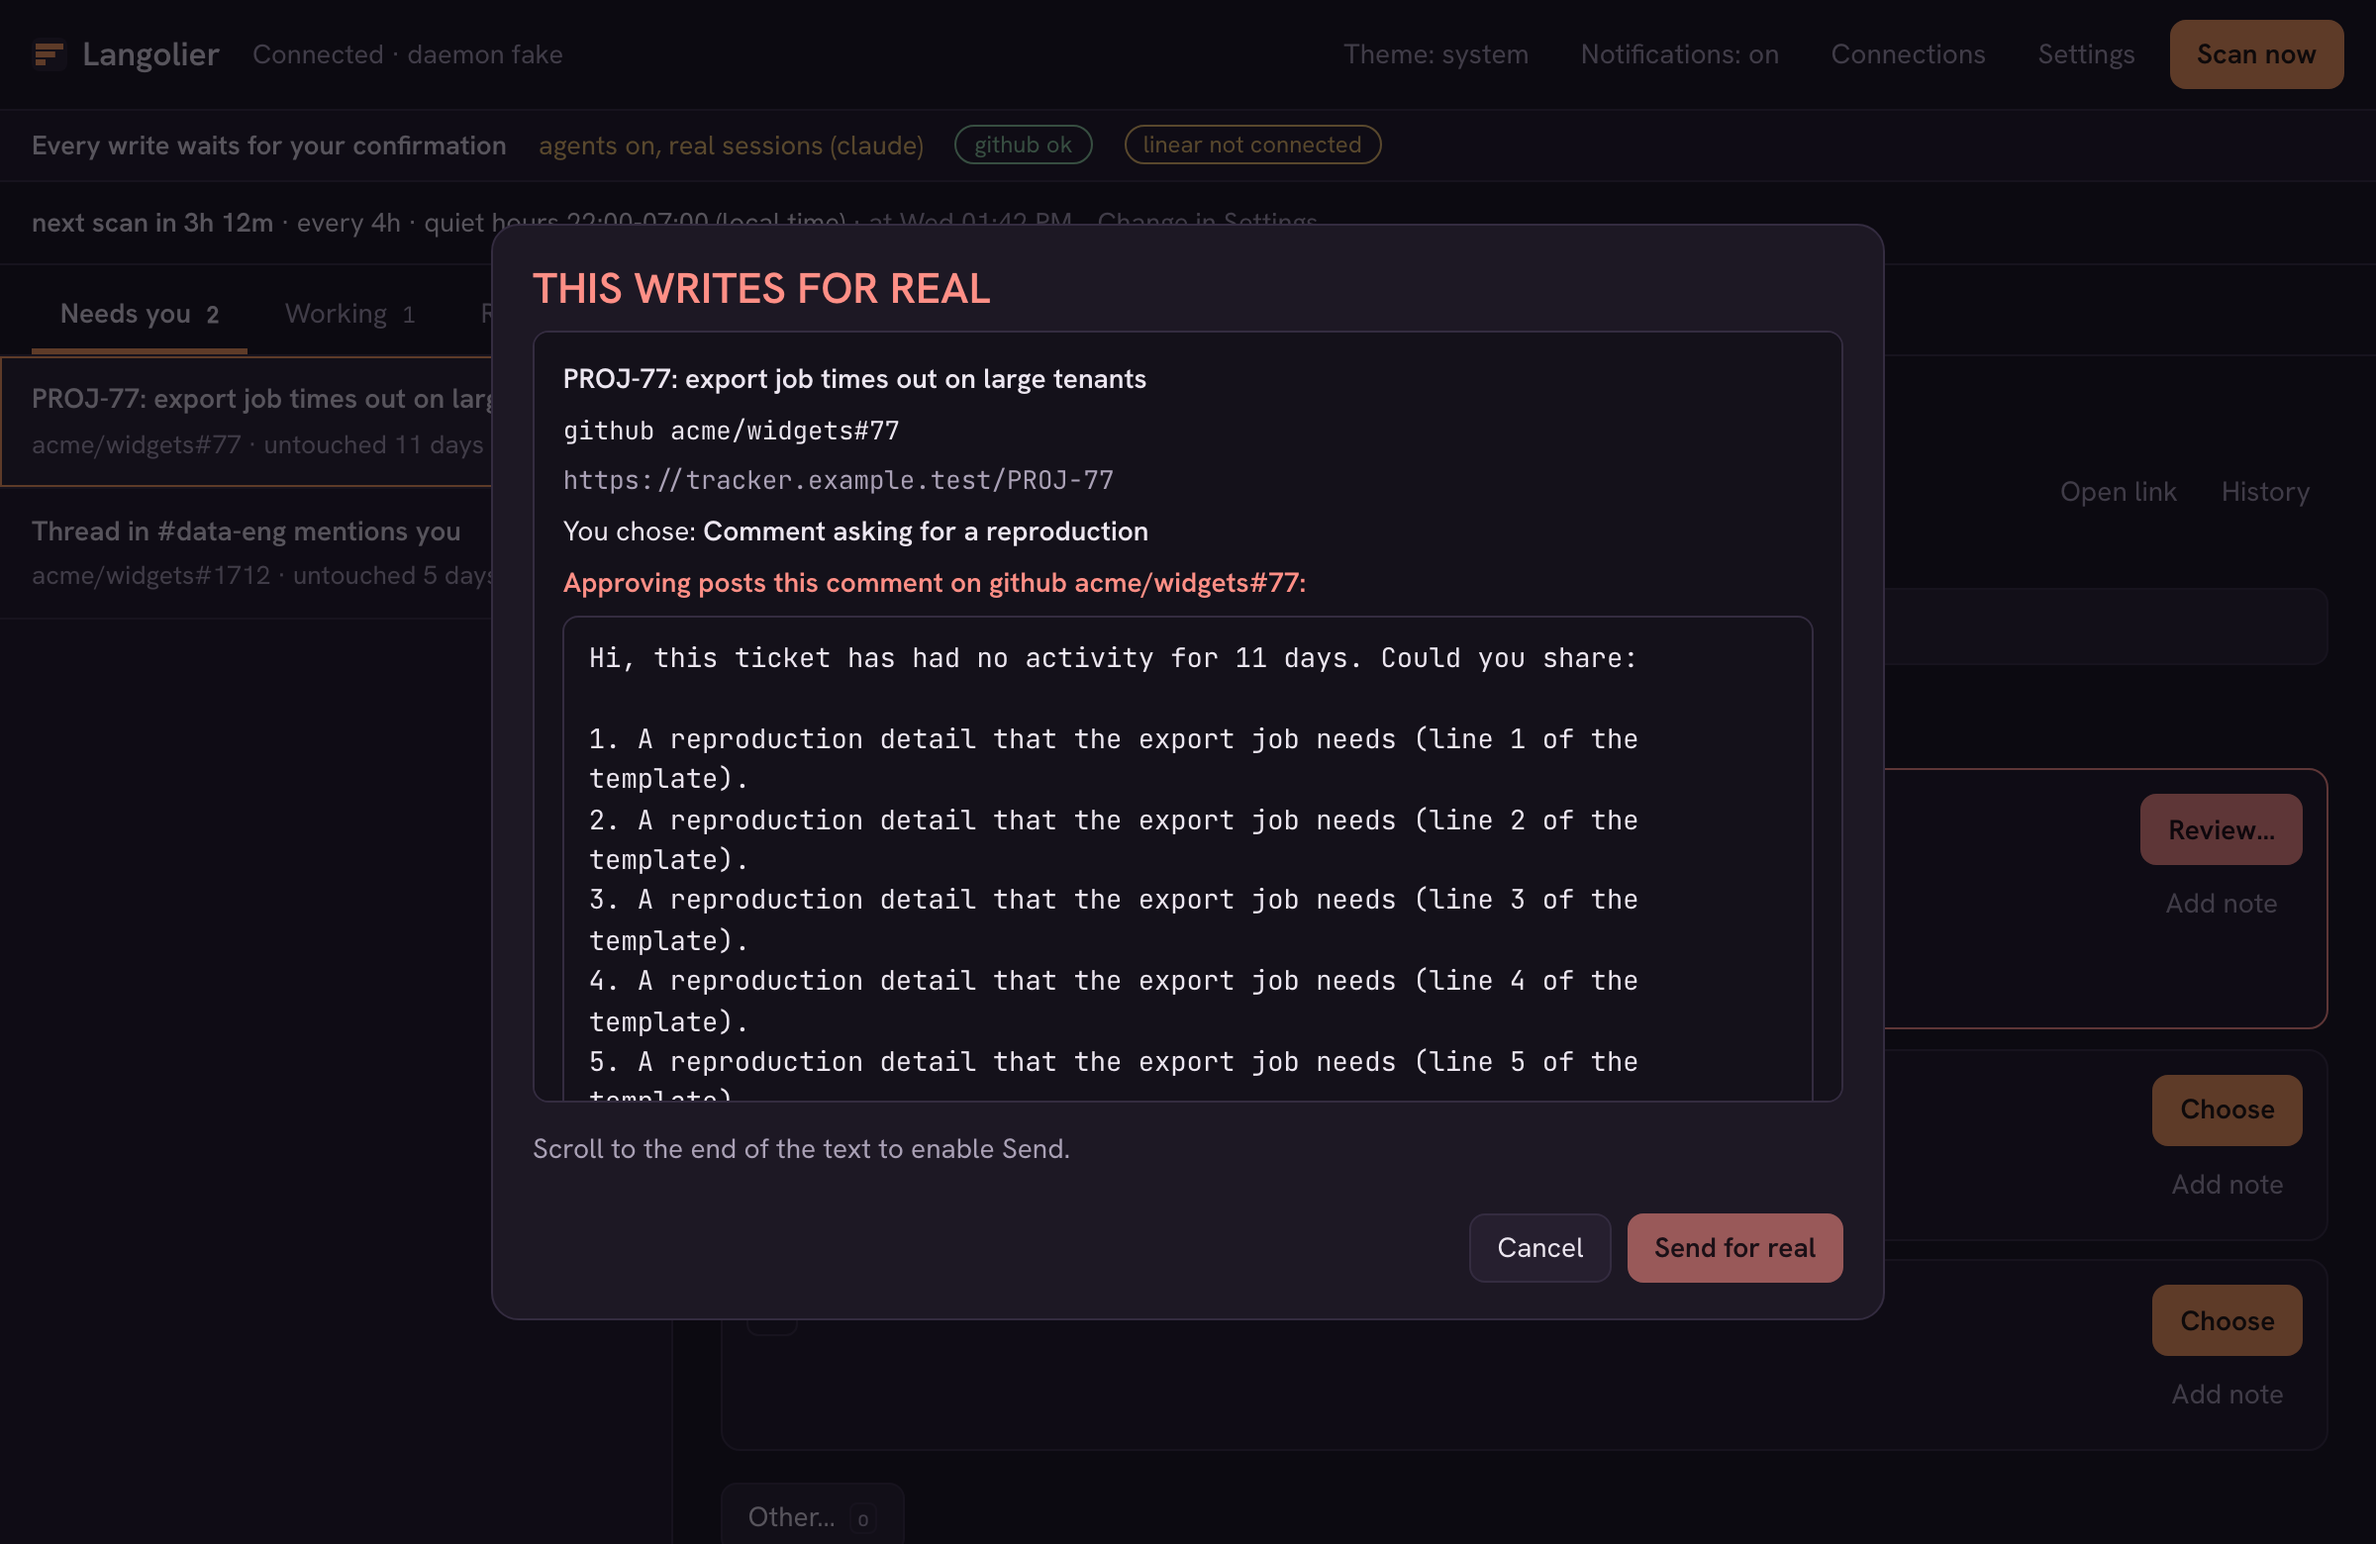
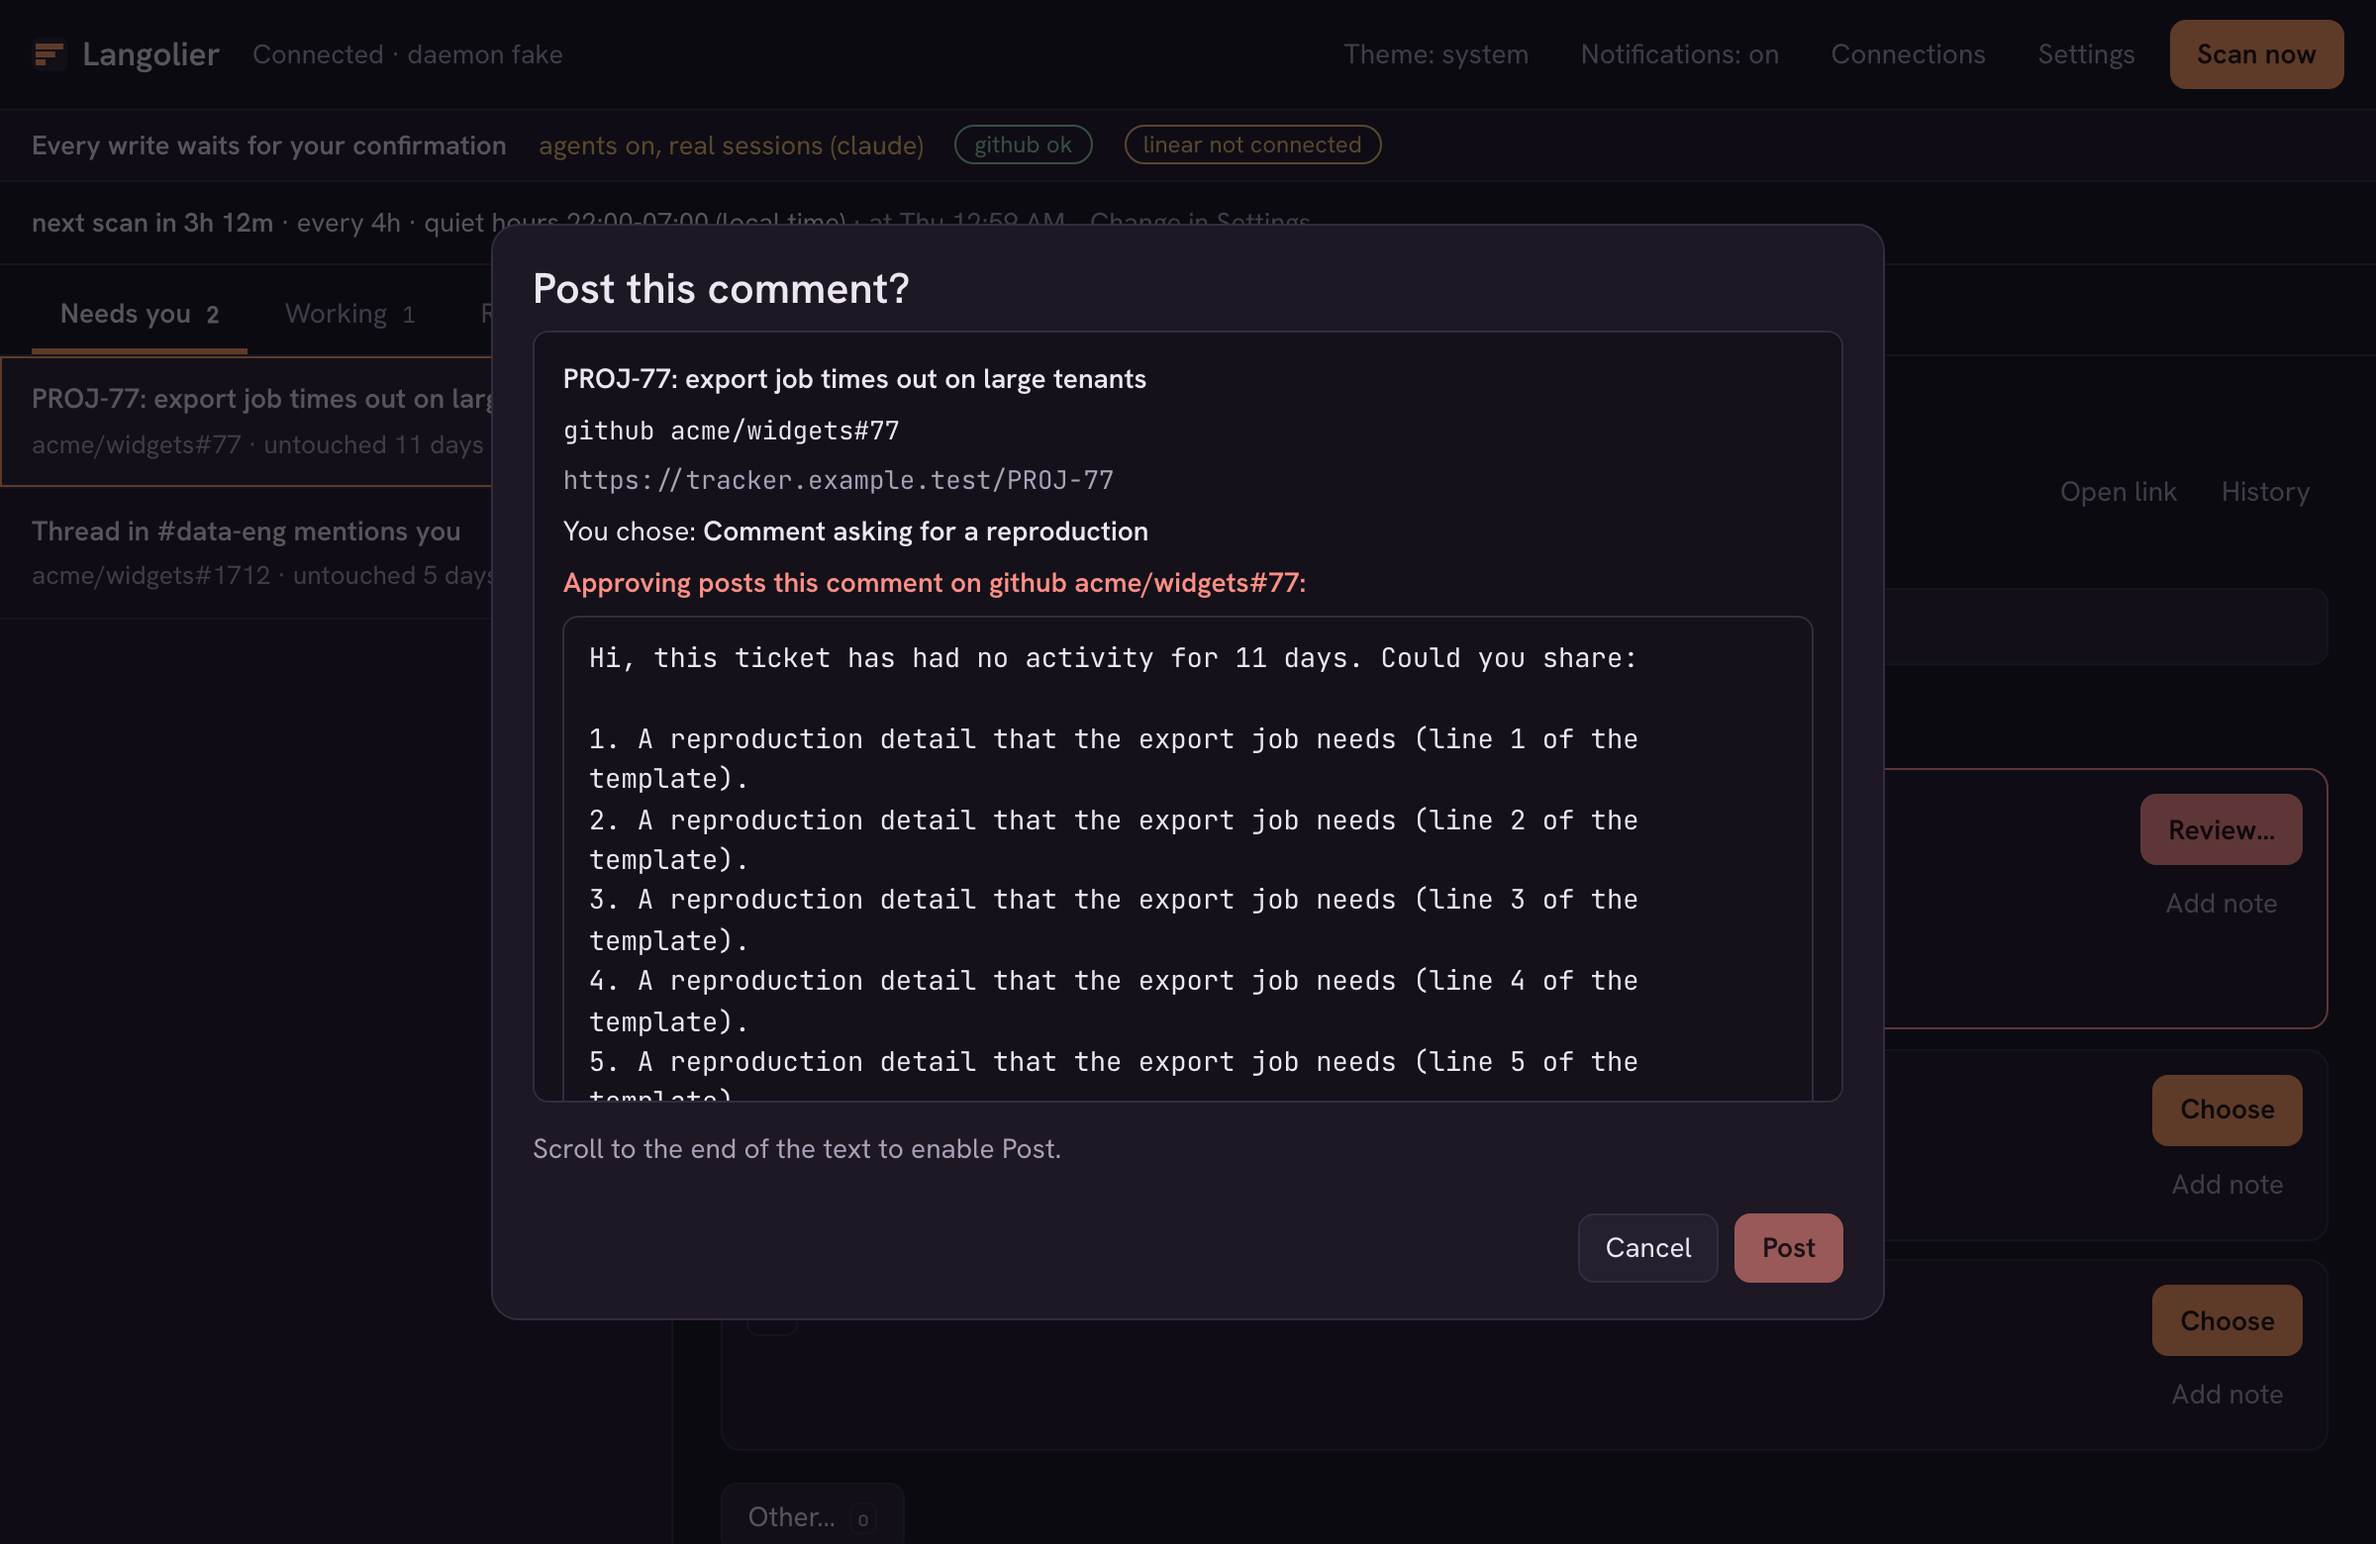
Update Langolier post for 0.2.2 (#15)

Changed region(s): [[0.2188, 0.1538, 0.4062, 0.2154], [0.625, 0.7692, 0.75, 0.8308]]

diff --git a/src/content/blog/3900-langolier-launch-the-backlog-that-quietly-rots.md b/src/content/blog/3900-langolier-launch-the-backlog-that-quietly-rots.md
@@ -1,6 +1,6 @@
 ---
 pubDatetime: 2026-11-12T02:09:00.000Z
-modDatetime: 2026-11-12T02:09:00.000Z
+modDatetime: 2026-11-11T23:59:00.000Z
 title: "Langolier: Daily decision maker"
 slug: langolier-daily-decision-maker
 featured: false
@@ -15,7 +15,7 @@ ogImage: /assets/langolier/langolier-og.png
 draft: false
 ---
 
-![The Langolier desktop app, shown with demo data. A queue lists two items under Needs you; the open card offers three numbered options, with a recommended comment tagged WRITES FOR REAL.](/assets/langolier/langolier-queue.png)
+![The Langolier desktop app, shown with demo data. A queue lists two items under Needs you; the open card offers three numbered options, with a recommended comment carrying a posts pill.](/assets/langolier/langolier-queue.png)
 
 Nothing in your backlog is on fire, which is exactly the problem.
 
@@ -52,9 +52,9 @@ A scan never writes and never starts an agent session; only a card you answer ca
 
 So this is not a read-only tool, and it isn't a dry run either. Langolier is fully functional as installed: it can post. What it won't do is post without you. Writes are narrow, and only one exists today: posting a comment on a GitHub issue or pull request. It is on by default and can be switched off per action type, in the app's Settings screen or with `langolierd settings set writes.github.comment off`. Every Linear action is unsupported for now; Linear is read-only.
 
-A comment option is tagged **WRITES FOR REAL**, and choosing it doesn't send anything. It opens a confirmation that shows the target and every character that will be posted, and the Send button stays disabled until all of that text has been on screen. Approval is per action, every time.
+A comment option carries a **posts** pill, and choosing it opens a confirmation. The app shows the target and every character that will be posted, with the note, “You'll see the exact text before anything is posted.” The dialog asks “Post this comment?” and has a **Post** button. Approval is per action, every time.
 
-![The confirmation dialog titled THIS WRITES FOR REAL, showing the target issue and the full comment text, with Cancel and Send for real buttons.](/assets/langolier/langolier-confirm-write.png)
+![The confirmation dialog titled “Post this comment?”, showing the target issue, the full comment text, and Cancel and Post buttons.](/assets/langolier/langolier-confirm-write.png)
 
 Immediately before posting, the daemon re-reads the item and re-checks that the active `gh` account is still the one you connected and that the item hasn't changed since you decided. If it has, nothing is posted and the card goes back to your queue with the reason. A failed post is never retried without a new answer.
 
@@ -68,21 +68,21 @@ You don't need the terminal to get set up. The desktop app has a **Connections**
 
 Scans also run on their own: every 4 hours by default, with quiet hours from 22:00 to 07:00, and once right after you connect an account. A scheduled scan is the same read-only scan. It never writes and never starts a session, so the queue fills up while you're away and nothing happens until you answer. The terminal commands (`langolierd connect github`, `langolierd settings`) do the same things, if you prefer them.
 
-## Local, and using your own Claude Code
+## Local, and using your own Claude Code or Codex
 
 Langolier runs on your machine. A Rust daemon does the work in the background and a frontend talks to it over a local socket: a terminal UI first, and a desktop app too. Your data and credentials stay local, and every card transition lands in a history you can open.
 
-It doesn't bring its own model. It drives the Claude Code CLI you already have, using the login already there. GitHub goes through your `gh` login, and the Linear key sits in the macOS Keychain. Connectors are registered by what they can do, such as reading assigned work, rather than by vendor name.
+It doesn't bring its own model. Agent sessions can run through Claude Code or Codex, using the sign-in already on your machine. When both are installed, Claude Code is the default; choose Codex in Settings (`agents.default`) or press `c` on a card. Codex uses your existing `codex` sign-in from `codex login` with ChatGPT; API-key logins are refused. Each session receives a short-lived copy of the login without a refresh token, and Langolier deletes it when the session ends. GitHub goes through your `gh` login, and the Linear key sits in the macOS Keychain. Scans and triage still use Claude Code.
 
 ## Agent sessions you approve one tool call at a time
 
-Some options start an agent session instead of posting a comment. There are two fixed recipes. `summarize_diff` reads an item and, for a pull request, its real diff, and writes a summary. `draft_plan` writes a `PLAN.md` in its own empty directory. Which recipe runs is named by the scan, but the tools, the working directory, and the spending caps come from Langolier and your config, never from the ticket.
+Some options start an agent session instead of posting a comment. Follow-up and resume work for both agents. There are two fixed recipes. `summarize_diff` reads an item and, for a pull request, its real diff, and writes a summary. `draft_plan` writes a `PLAN.md` in its own empty directory. Which recipe runs is named by the scan, but the tools, the working directory, and the spending caps come from Langolier and your config, never from the ticket.
 
-The session runs inside an OS sandbox that can read only its own directory and a short list of system paths. Each tool call that could change something stops and waits for you, with exactly what it would receive on screen.
+Each tool call is approved in the app, inside the same macOS sandbox. Codex has no read tool, so each file read or search needs its own approval. The session can read only its own directory and a short list of system paths.
 
 ![A card in the Working tab showing an agent session that needs approval. The agent wants to use Write, with the exact file path and content shown, and Approve once, Deny, and Interrupt session controls.](/assets/langolier/langolier-tool-approval.png)
 
-There is no "always allow". You approve that one call or you deny it, and you can interrupt the session at any point. Sessions have caps on turns, spend, and minutes. One caveat I'd rather state than hide: the sandbox limits what a session can read, but a session can still use the network.
+There is no "always allow". You approve that one call or you deny it, and you can interrupt the session at any point. Claude Code sessions have caps on turns, spend, and minutes. Langolier does not enforce the dollar budget for Codex sessions. A session can still use the network.
 
 ## Rules that make the queue quieter without a model
 
@@ -90,7 +90,7 @@ This is the part that keeps the queue from refilling. When you answer the same w
 
 A rule is data, not a script: a fixed set of fields to match, and one action: snooze, dismiss, or prefer an option type. It never contains ticket text and it never posts anything. Each scan applies your enabled rules before triage, so a matching card is snoozed or dismissed with no model call, and its history says which rule did it.
 
-There are also learned checks (what to look at) and recipes (a templated comment, optionally followed by a snooze or dismiss). Both go through the same propose, preview, and approve flow. A recipe's comment still goes through the same approval and `WRITES FOR REAL` confirmation as any other comment.
+There are also learned checks (what to look at) and recipes (a templated comment, optionally followed by a snooze or dismiss). Both go through the same propose, preview, and approve flow. A recipe's comment goes through the same approval and exact text confirmation as any other comment.
 
 ## Where it stands
 
@@ -99,7 +99,7 @@ Langolier is early, and I'd rather you know that before you install it.
 - **macOS first.** The installer targets macOS. There's no Linux or Windows build.
 - **Nothing is signed.** The binaries and `Langolier.app` are not Developer ID signed or notarized.
 - **Writes are narrow.** One real write exists (GitHub comments). It's on by default, and each comment still needs exact-text confirmation. Linear writes aren't supported yet; Linear is read-only.
-- **Claude Code only.** Codex isn't wired up as an agent yet.
+- **Codex limits.** Codex agent sessions are macOS only. The dollar budget is not enforced, and each file read or search needs a separate approval.
 - **Personal accounts.** Connect your own GitHub and Linear accounts.
 
 Connect your accounts from the app's Connections screen, or with `langolierd connect github` in a terminal. If you want to look before you commit, `langolier --demo` runs the whole thing on fake data with a fake agent. It never starts `claude`, reads no credentials, and contacts nothing.
